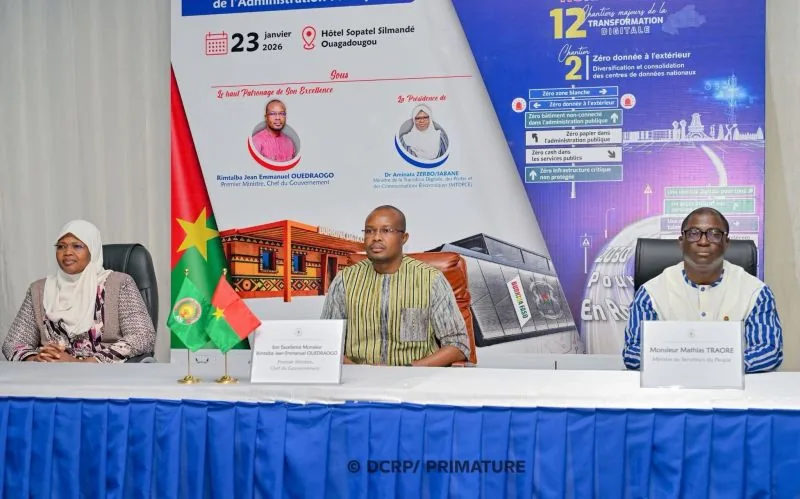
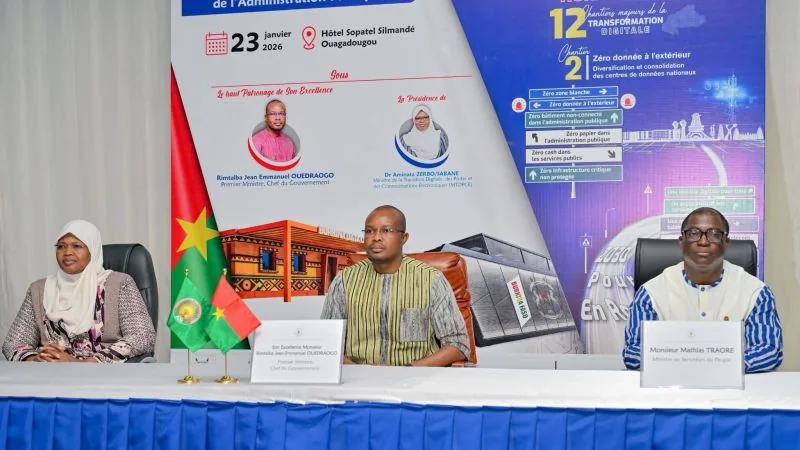
style: printed-photo look for project images
- Visual gets a "print" frame (white border, soft shadow) used with a
  slight tilt that straightens on hover.
- Project page: cover beside the title, gallery as a staggered collage.
- Project cards and home list thumbnails/preview use the same frame.
- Project description fields are optional; empty blocks are hidden.
- Crop the credit watermark off the official data center photos.

diff --git a/src/pages/ProjectDetailPage.tsx b/src/pages/ProjectDetailPage.tsx
@@ -7,6 +7,7 @@ import { PlaceholderBadge } from '@/components/ui/PlaceholderBadge'
 import { getProject, projectCategories, projects } from '@/data/projects'
 import { VideoGallery } from '@/components/shared/VideoGallery'
 import { Visual } from '@/components/shared/Visual'
+import { Collage } from '@/components/shared/Collage'
 import NotFoundPage from './NotFoundPage'
 
 /** Étude de cas d'un projet : contexte, problème, solution, rôle, outils, visuels. */
@@ -20,6 +21,8 @@ export default function ProjectDetailPage() {
   const next = projects[(index + 1) % projects.length]
 
   const hasVideos = Boolean(project.videos && project.videos.length > 0)
+  // Visuel principal : affiché sauf pour un projet vidéo sans couverture (les vidéos le remplacent)
+  const showCover = !(hasVideos && !project.cover)
   const videoSection = hasVideos && (
     <section aria-labelledby="videos-title">
       <h2 id="videos-title" className="flex items-center gap-2 label-mono text-xs text-accent">
@@ -32,11 +35,13 @@ export default function ProjectDetailPage() {
     </section>
   )
 
+  // Seuls les blocs renseignés sont affichés
   const story = [
     { label: 'Contexte', text: project.context },
     { label: 'Problème', text: project.problem },
     { label: 'Solution', text: project.solution },
-  ]
+  ].filter((block): block is { label: string; text: string } => Boolean(block.text))
+  const hasInfo = Boolean(project.role || project.tools.length > 0 || project.url)
 
   return (
     <>
@@ -52,7 +57,8 @@ export default function ProjectDetailPage() {
             Tous les projets
           </Link>
 
-          <Reveal className="mt-10 max-w-4xl">
+          <div className={showCover ? 'mt-10 grid items-center gap-12 lg:grid-cols-12 lg:gap-16' : 'mt-10'}>
+          <Reveal className={showCover ? 'lg:col-span-7' : 'max-w-4xl'}>
             <p className="flex flex-wrap items-center gap-3 label-mono text-xs text-subtle">
               <Link
                 to={`/projets?categorie=${project.category}`}
@@ -60,8 +66,12 @@ export default function ProjectDetailPage() {
               >
                 {projectCategories[project.category]}
               </Link>
-              <span aria-hidden="true">·</span>
-              <span>{project.year}</span>
+              {project.year && (
+                <>
+                  <span aria-hidden="true">·</span>
+                  <span>{project.year}</span>
+                </>
+              )}
               <PlaceholderBadge show={Boolean(project.placeholder)} />
             </p>
             <h1 className="mt-5 font-display text-4xl leading-[1.05] font-extrabold tracking-tight text-balance sm:text-5xl lg:text-6xl">
@@ -69,24 +79,29 @@ export default function ProjectDetailPage() {
             </h1>
             <p className="mt-5 max-w-2xl text-lg leading-relaxed text-muted">{project.summary}</p>
           </Reveal>
+
+          {/* Visuel principal à côté du titre, présenté comme une photo imprimée légèrement inclinée */}
+          {showCover && (
+            <Reveal delay={0.1} className="lg:col-span-5">
+              <Visual
+                image={project.cover}
+                priority
+                frame="print"
+                sizes="(min-width: 1024px) 40vw, 90vw"
+                className="mx-auto aspect-[4/3] w-11/12 rotate-[-1.5deg] transition-transform duration-500 hover:rotate-0 sm:w-4/5 lg:w-full lg:rotate-[2deg] lg:hover:rotate-0"
+              />
+            </Reveal>
+          )}
+          </div>
         </header>
 
         {/* Sans image de couverture, les vidéos du projet prennent la place du visuel principal */}
-        {hasVideos && !project.cover ? (
-          <div className="container-page mt-10 md:mt-12">{videoSection}</div>
-        ) : (
-          <Reveal delay={0.1} className="container-page mt-10 md:mt-12">
-            <Visual
-              image={project.cover}
-              priority
-              sizes="(min-width: 1024px) 768px, 80vw"
-              className="aspect-[16/9] w-4/5 max-w-3xl sm:aspect-[2/1]"
-            />
-          </Reveal>
-        )}
+        {hasVideos && !project.cover && <div className="container-page mt-10 md:mt-12">{videoSection}</div>}
 
+        {(story.length > 0 || hasInfo || (project.results && project.results.length > 0)) && (
         <div className="container-page py-14 md:py-20">
           {/* Récit du projet : trois blocs courts, côte à côte sur grand écran */}
+          {story.length > 0 && (
           <ol className="grid gap-x-10 gap-y-8 border-t border-line pt-8 md:grid-cols-3">
             {story.map((block, i) => (
               <li key={block.label}>
@@ -100,6 +115,7 @@ export default function ProjectDetailPage() {
               </li>
             ))}
           </ol>
+          )}
 
           {project.results && project.results.length > 0 && (
             <Reveal className="mt-10">
@@ -116,11 +132,15 @@ export default function ProjectDetailPage() {
           )}
 
           {/* Fiche du projet : une seule bande d'informations */}
+          {hasInfo && (
           <dl className="mt-12 grid gap-6 rounded-2xl border border-line bg-card/50 p-5 sm:grid-cols-[minmax(0,1fr)_minmax(0,1.4fr)_auto] sm:gap-10 md:p-6">
+            {project.role && (
             <div>
               <dt className="label-mono text-[11px] text-subtle">Mon rôle</dt>
               <dd className="mt-1.5 text-sm leading-relaxed text-fg">{project.role}</dd>
             </div>
+            )}
+            {project.tools.length > 0 && (
             <div>
               <dt className="label-mono text-[11px] text-subtle">Outils</dt>
               <dd className="mt-2">
@@ -133,6 +153,7 @@ export default function ProjectDetailPage() {
                 </ul>
               </dd>
             </div>
+            )}
             {project.url && (
               <div>
                 <dt className="label-mono text-[11px] text-subtle">Lien</dt>
@@ -151,17 +172,15 @@ export default function ProjectDetailPage() {
               </div>
             )}
           </dl>
+          )}
         </div>
+        )}
 
         {hasVideos && project.cover && <div className="container-page pb-24">{videoSection}</div>}
 
         {project.gallery && project.gallery.length > 0 && (
-          <section aria-label="Galerie" className="container-page grid grid-cols-2 gap-3 pb-20 sm:gap-4 lg:grid-cols-3">
-            {project.gallery.map((img, i) => (
-              <Reveal key={img.src} delay={(i % 3) * 0.06}>
-                <Visual image={img} className="aspect-[4/3]" />
-              </Reveal>
-            ))}
+          <section aria-label="Galerie" className="container-page pb-24">
+            <Collage images={project.gallery} />
           </section>
         )}
       </article>

diff --git a/src/sections/Projects/ProjectIndex.tsx b/src/sections/Projects/ProjectIndex.tsx
@@ -58,7 +58,12 @@ export function ProjectIndex({ projects }: ProjectIndexProps) {
                 className="group grid grid-cols-[4.5rem_minmax(0,1fr)_auto] items-center gap-x-4 border-b border-line py-4 transition-colors duration-300 hover:bg-accent/[0.04] focus-visible:bg-accent/[0.06] md:grid-cols-[3rem_minmax(0,2fr)_minmax(0,1fr)_minmax(0,1fr)_4.5rem] md:rounded-xl md:px-3 md:py-5"
               >
                 {/* Mobile : petite miniature ; ordinateur : numéro */}
-                <Visual image={cover} sizes="72px" className="aspect-[4/3] rounded-lg! md:hidden" />
+                <Visual
+                  image={cover}
+                  frame="print"
+                  sizes="72px"
+                  className={`aspect-[4/3] transition-transform duration-500 group-hover:rotate-0 md:hidden ${i % 2 === 0 ? 'rotate-[-2deg]' : 'rotate-[2deg]'}`}
+                />
                 <span className="hidden label-mono text-xs text-subtle md:block">{String(i + 1).padStart(2, '0')}</span>
 
                 <span className="min-w-0">
@@ -91,7 +96,7 @@ export function ProjectIndex({ projects }: ProjectIndexProps) {
         })}
       </ul>
 
-      {/* Petit aperçu qui suit le curseur (ordinateur, souris uniquement) */}
+      {/* Petit aperçu façon photo imprimée, qui suit le curseur (ordinateur, souris uniquement) */}
       <m.div
         aria-hidden="true"
         className="pointer-events-none fixed top-0 left-0 z-30 hidden w-56 md:block"
@@ -101,10 +106,10 @@ export function ProjectIndex({ projects }: ProjectIndexProps) {
           {active !== null && (
             <m.div
               key="preview"
-              className="relative mt-5 ml-5 aspect-[4/3] overflow-hidden rounded-xl border border-line bg-card shadow-[0_16px_40px_-20px_rgb(14_26_51/0.35)]"
-              initial={{ opacity: 0, scale: 0.94 }}
-              animate={{ opacity: 1, scale: 1 }}
-              exit={{ opacity: 0, scale: 0.94 }}
+              className="relative mt-5 ml-5 aspect-[4/3] rounded-md bg-white shadow-[0_22px_45px_-22px_rgb(14_26_51/0.5),0_2px_6px_-2px_rgb(14_26_51/0.15)] ring-1 ring-black/5 dark:bg-[#1c1f27] dark:ring-white/10"
+              initial={{ opacity: 0, scale: 0.92, rotate: 0 }}
+              animate={{ opacity: 1, scale: 1, rotate: -3 }}
+              exit={{ opacity: 0, scale: 0.92, rotate: 0 }}
               transition={{ duration: 0.25, ease: [0.16, 1, 0.3, 1] }}
             >
               {/* Toutes les images sont empilées : passer d'un projet à l'autre est instantané */}
@@ -113,7 +118,7 @@ export function ProjectIndex({ projects }: ProjectIndexProps) {
                 return (
                   <div
                     key={project.slug}
-                    className="absolute inset-0 transition-opacity duration-300"
+                    className="absolute inset-2 overflow-hidden rounded-[3px] transition-opacity duration-300"
                     style={{ opacity: i === active ? 1 : 0 }}
                   >
                     {cover ? (

diff --git a/src/components/shared/Visual.tsx b/src/components/shared/Visual.tsx
@@ -19,29 +19,53 @@ interface VisualProps {
   priority?: boolean
   /** Largeur d'affichage de l'image, pour le choix dans srcSet (par défaut : demi-écran sur ordinateur) */
   sizes?: string
+  /**
+   * - 'card' (par défaut) : cadre arrondi avec une fine bordure
+   * - 'print' : façon photo imprimée, avec une marge blanche et une ombre douce (à incliner via className)
+   */
+  frame?: 'card' | 'print'
 }
 
 /** Visuel (projet, article…), avec un cadre neutre tant qu'aucune image n'est fournie. */
-export function Visual({ image, className, priority = false, sizes = '(min-width: 768px) 50vw, 100vw' }: VisualProps) {
-  return (
-    <div className={cn('relative overflow-hidden rounded-2xl border border-line bg-card', className)}>
-      {image ? (
-        <img
-          src={image.src}
-          srcSet={image.srcSet}
-          sizes={image.srcSet ? sizes : undefined}
-          alt={image.alt}
-          loading={priority ? 'eager' : 'lazy'}
-          fetchPriority={priority ? 'high' : 'auto'}
-          decoding="async"
-          className="size-full object-cover"
-        />
-      ) : (
-        <div className="bg-grid flex size-full flex-col items-center justify-center gap-3 text-subtle">
-          <ImageOff aria-hidden="true" className="size-6" strokeWidth={1.5} />
-          <span className="label-mono text-[11px]">Visuel à venir</span>
-        </div>
-      )}
+export function Visual({
+  image,
+  className,
+  priority = false,
+  sizes = '(min-width: 768px) 50vw, 100vw',
+  frame = 'card',
+}: VisualProps) {
+  const content = image ? (
+    <img
+      src={image.src}
+      srcSet={image.srcSet}
+      sizes={image.srcSet ? sizes : undefined}
+      alt={image.alt}
+      loading={priority ? 'eager' : 'lazy'}
+      fetchPriority={priority ? 'high' : 'auto'}
+      decoding="async"
+      className="size-full object-cover"
+    />
+  ) : (
+    <div className="bg-grid flex size-full flex-col items-center justify-center gap-3 text-subtle">
+      <ImageOff aria-hidden="true" className="size-6" strokeWidth={1.5} />
+      <span className="label-mono text-[11px]">Visuel à venir</span>
     </div>
+  )
+
+  if (frame === 'print') {
+    return (
+      <div
+        className={cn(
+          'relative rounded-md bg-white p-[3%] shadow-[0_22px_45px_-22px_rgb(14_26_51/0.45),0_2px_6px_-2px_rgb(14_26_51/0.12)] ring-1 ring-black/5 dark:bg-[#1c1f27] dark:ring-white/10',
+          className,
+        )}
+      >
+        <div className="size-full overflow-hidden rounded-[3px] bg-card">{content}</div>
+      </div>
+    )
+  }
+
+  return (
+    <div className={cn('relative overflow-hidden rounded-2xl border border-line bg-card', className)}>{content}</div>
   )
 }

diff --git a/src/sections/Projects/ProjectCard.tsx b/src/sections/Projects/ProjectCard.tsx
@@ -3,32 +3,44 @@ import { Link } from 'react-router'
 import { Visual } from '@/components/shared/Visual'
 import { PlaceholderBadge } from '@/components/ui/PlaceholderBadge'
 import { getProjectCover, projectCategories, type Project } from '@/data/projects'
+import { cn } from '@/lib/cn'
 
 interface ProjectCardProps {
   project: Project
+  /** Position dans la liste : sert à alterner l'inclinaison des visuels */
+  index?: number
 }
 
 /**
  * Carte projet, volontairement légère.
  * - Mobile : ligne compacte, petite miniature à gauche et texte à droite.
  * - Tablette et ordinateur : visuel au format 3:2 puis texte.
- * Survol : l'image se rapproche à peine et le titre prend la couleur d'accent ; la carte ne bouge pas.
+ * Le visuel est présenté comme une photo imprimée, inclinée un coup à gauche, un coup à droite.
+ * Survol : la photo se redresse et le titre prend la couleur d'accent.
  * Toute la carte est cliquable.
  */
-export function ProjectCard({ project }: ProjectCardProps) {
+export function ProjectCard({ project, index = 0 }: ProjectCardProps) {
   return (
     <article className="group relative flex items-start gap-4 sm:flex-col sm:gap-0">
       <Visual
         image={getProjectCover(project)}
+        frame="print"
         sizes="(min-width: 1024px) 33vw, (min-width: 640px) 50vw, 112px"
-        className="aspect-[4/3] w-28 shrink-0 rounded-xl! transition-colors duration-300 group-hover:border-accent/40 *:transition-transform *:duration-700 *:ease-[cubic-bezier(0.16,1,0.3,1)] sm:aspect-[3/2] sm:w-full motion-safe:group-hover:*:scale-[1.03]"
+        className={cn(
+          'aspect-[4/3] w-28 shrink-0 transition-transform duration-500 ease-[cubic-bezier(0.16,1,0.3,1)] group-hover:rotate-0 sm:aspect-[3/2] sm:w-full',
+          index % 2 === 0 ? 'rotate-[-1.5deg]' : 'rotate-[1.5deg]',
+        )}
       />
 
-      <div className="min-w-0 flex-1 sm:mt-4 sm:w-full">
+      <div className="min-w-0 flex-1 sm:mt-5 sm:w-full">
         <div className="flex flex-wrap items-center gap-x-2 gap-y-1 label-mono text-[11px] text-subtle">
           <span className="text-accent">{projectCategories[project.category]}</span>
-          <span aria-hidden="true">·</span>
-          <span>{project.year}</span>
+          {project.year && (
+            <>
+              <span aria-hidden="true">·</span>
+              <span>{project.year}</span>
+            </>
+          )}
           <PlaceholderBadge show={Boolean(project.placeholder)} />
         </div>
 

diff --git a/src/components/shared/Collage.tsx b/src/components/shared/Collage.tsx
@@ -1,0 +1,47 @@
+import { Reveal } from '@/components/shared/Reveal'
+import { Visual, type VisualImage } from '@/components/shared/Visual'
+import { cn } from '@/lib/cn'
+
+/*
+  Disposition « collage » : photos imprimées de tailles variées, légèrement inclinées et décalées,
+  décalées les unes par rapport aux autres sur grand écran. Le motif se répète tous les 5 visuels.
+  - largeur : nombre de colonnes sur 12 (grand écran)
+  - décalage : marge haute / chevauchement, pour casser l'alignement
+  - inclinaison : angle de la photo (redressée au survol)
+*/
+const pattern = [
+  { span: 'lg:col-span-6', offset: '', tilt: 'lg:rotate-[-1.5deg]' },
+  { span: 'lg:col-span-4 lg:col-start-8', offset: 'lg:mt-16', tilt: 'lg:rotate-[2deg]' },
+  { span: 'lg:col-span-4 lg:col-start-2', offset: 'lg:-mt-10', tilt: 'lg:rotate-[1.5deg]' },
+  { span: 'lg:col-span-4', offset: 'lg:mt-8', tilt: 'lg:rotate-[-2deg]' },
+  { span: 'lg:col-span-3', offset: 'lg:mt-20', tilt: 'lg:rotate-[1deg]' },
+]
+
+/** Sur mobile : deux colonnes, la première image en pleine largeur, inclinaisons alternées plus discrètes */
+const mobileTilt = ['rotate-[-1deg]', 'rotate-[1.5deg]', 'rotate-[-1.5deg]']
+
+export function Collage({ images }: { images: VisualImage[] }) {
+  return (
+    <ul className="mx-auto grid max-w-5xl grid-cols-2 gap-x-4 gap-y-6 sm:gap-x-6 lg:grid-cols-12 lg:gap-x-6 lg:gap-y-8">
+      {images.map((img, i) => {
+        const p = pattern[i % pattern.length]
+        return (
+          <li key={img.src} className={cn('relative hover:z-10', i === 0 && 'col-span-2', p.span, p.offset)}>
+            <Reveal delay={(i % 3) * 0.08}>
+              <Visual
+                image={img}
+                frame="print"
+                sizes={i === 0 ? '(min-width: 1024px) 512px, 100vw' : '(min-width: 1024px) 340px, 50vw'}
+                className={cn(
+                  'aspect-[4/3] transition-transform duration-500 ease-[cubic-bezier(0.16,1,0.3,1)] hover:rotate-0 hover:scale-[1.02] lg:hover:rotate-0',
+                  mobileTilt[i % mobileTilt.length],
+                  p.tilt,
+                )}
+              />
+            </Reveal>
+          </li>
+        )
+      })}
+    </ul>
+  )
+}

diff --git a/src/pages/ProjectsPage.tsx b/src/pages/ProjectsPage.tsx
@@ -83,7 +83,7 @@ export default function ProjectsPage() {
 
         <ul className="mt-10 grid gap-x-6 gap-y-6 sm:mt-12 sm:grid-cols-2 sm:gap-y-12 lg:grid-cols-3">
           <AnimatePresence mode="popLayout" initial={false}>
-            {visible.map((project) => (
+            {visible.map((project, i) => (
               <m.li
                 key={project.slug}
                 initial={{ opacity: 0, y: 12 }}
@@ -91,7 +91,7 @@ export default function ProjectsPage() {
                 exit={{ opacity: 0 }}
                 transition={{ duration: 0.3 }}
               >
-                <ProjectCard project={project} />
+                <ProjectCard project={project} index={i} />
               </m.li>
             ))}
           </AnimatePresence>
